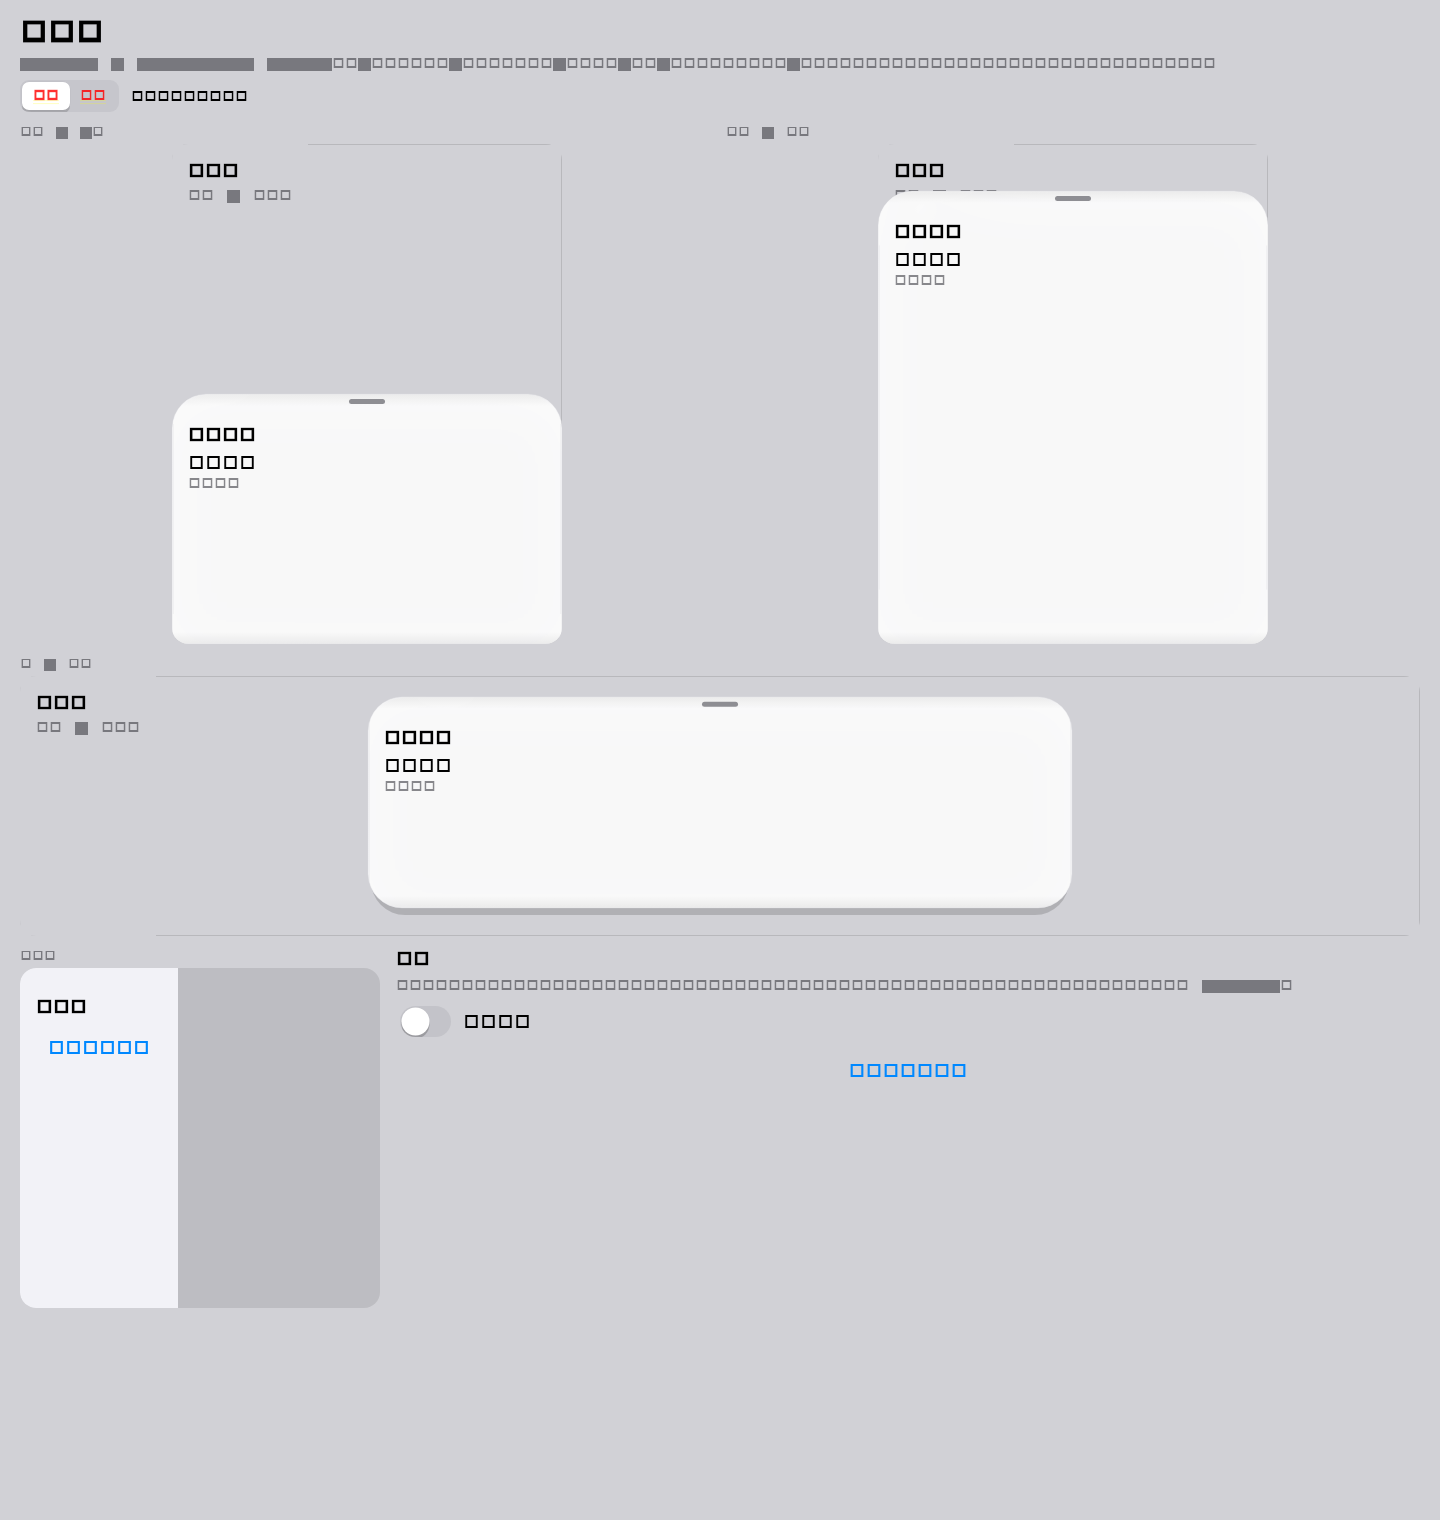
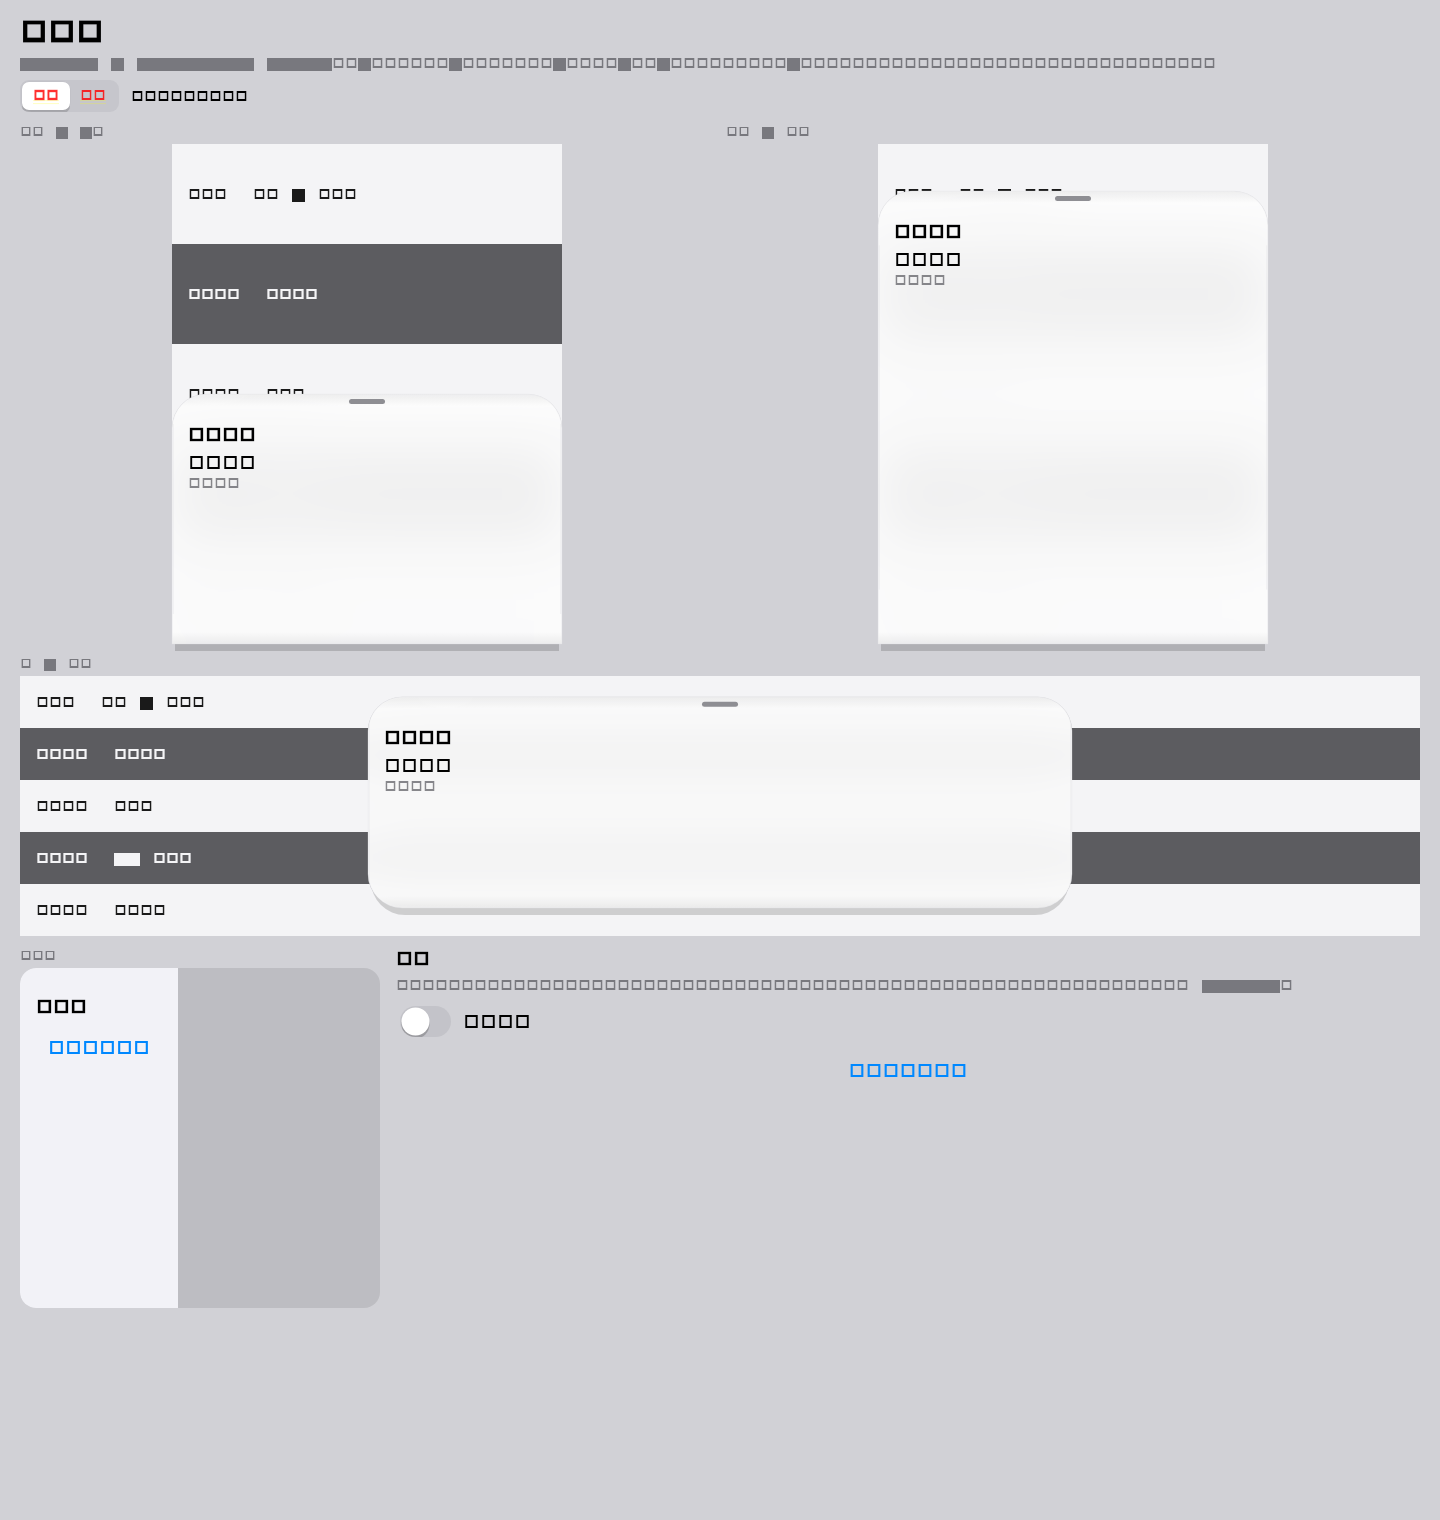
让工作表 Thick 采样背后的预览条
样张不再用整面纯色，也不再用外层裁剪包住 GlassSurface。
深浅条铺在盘面下面，BackdropFilter 与材质页同一套叠放。

Changed region(s): [[0.0, 0.402, 1.0, 0.6184], [0.0938, 0.0928, 0.4062, 0.2783], [0.5938, 0.0928, 0.9062, 0.1546]]

diff --git a/example/lib/pages/sheets_page.dart b/example/lib/pages/sheets_page.dart
@@ -411,63 +411,36 @@ class _Specimen extends StatelessWidget {
   }
 
   Widget _plate(LingyunColors colors) {
-    return ClipRRect(
-      borderRadius: BorderRadius.circular(16),
-      child: DecoratedBox(
-        key: stageKey,
-        decoration: BoxDecoration(
-          color: colors.grays.gray4,
-          border: Border.all(color: colors.separators.nonOpaque),
-        ),
-        child: LayoutBuilder(
-          builder: (context, constraints) {
-            final metrics = LingyunSheetMetrics(
-              bounds: Size(constraints.maxWidth, constraints.maxHeight),
-              safeArea: safeArea,
-              keyboardInset: 0,
-            );
-            return Stack(
-              children: [
-                _backdrop(colors),
-                Positioned(
-                  left: metrics.left,
-                  width: metrics.width,
-                  bottom: metrics.bottomOffset,
-                  height: metrics.heightFor(detent),
-                  child: LingyunSheet(
-                    attachedToBottom: metrics.attachedToBottom,
-                    grabberLabel: '抓手',
-                    child: _specimenBody(colors),
-                  ),
-                ),
-              ],
-            );
-          },
-        ),
-      ),
-    );
-  }
-
-  Widget _backdrop(LingyunColors colors) {
-    return ColoredBox(
-      color: colors.grays.gray4,
-      child: Padding(
-        padding: const EdgeInsets.fromLTRB(16, 16, 16, 12),
-        child: Column(
-          crossAxisAlignment: CrossAxisAlignment.start,
+    return LayoutBuilder(
+      builder: (context, constraints) {
+        final metrics = LingyunSheetMetrics(
+          bounds: Size(constraints.maxWidth, constraints.maxHeight),
+          safeArea: safeArea,
+          keyboardInset: 0,
+        );
+        // Same stacking as the Materials stripe field: backdrop first, then
+        // GlassSurface. An ancestor clip or a flat fill under the platter
+        // makes BackdropFilter sample one color, so the sheet reads as a
+        // solid plate.
+        return Stack(
+          key: stageKey,
+          fit: StackFit.expand,
           children: [
-            Text(
-              '收件箱',
-              style: LingyunTextStyles.headline(color: colors.labels.primary),
-            ),
-            const SizedBox(height: 4),
-            Text(
-              '今天 · 已置顶',
-              style: LingyunTextStyles.footnote(color: colors.labels.secondary),
+            const _SheetStripeField(),
+            Positioned(
+              left: metrics.left,
+              width: metrics.width,
+              bottom: metrics.bottomOffset,
+              height: metrics.heightFor(detent),
+              child: LingyunSheet(
+                attachedToBottom: metrics.attachedToBottom,
+                grabberLabel: '抓手',
+                child: _specimenBody(colors),
+              ),
             ),
           ],
-        ),
-      ),
+        );
+      },
     );
   }
 
@@ -551,3 +524,44 @@ Widget _sheetBody(BuildContext context, LingyunSheetController controller) {
 }
 
 double mathMin(double a, double b) => a < b ? a : b;
+
+/// Preview bands behind the platter. Same idea as the Materials stripe
+/// field: high-contrast strips so Thick frost stays visible. Not a token.
+class _SheetStripeField extends StatelessWidget {
+  const _SheetStripeField();
+
+  static const _bands = <(Color, Color, String, String)>[
+    (Color(0xFFF4F4F6), Color(0xFF1A1A1A), '收件箱', '今天 · 已置顶'),
+    (Color(0xFF5C5C60), Color(0xFFF4F4F6), '周末散步', '滨江公园'),
+    (Color(0xFFF4F4F6), Color(0xFF1A1A1A), '项目纪要', '已发送'),
+    (Color(0xFF5C5C60), Color(0xFFF4F4F6), '家庭相册', '12 张照片'),
+    (Color(0xFFF4F4F6), Color(0xFF1A1A1A), '采购清单', '明天之前'),
+  ];
+
+  @override
+  Widget build(BuildContext context) {
+    return Column(
+      crossAxisAlignment: CrossAxisAlignment.stretch,
+      children: [
+        for (final band in _bands)
+          Expanded(
+            child: ColoredBox(
+              color: band.$1,
+              child: Padding(
+                padding: const EdgeInsets.symmetric(horizontal: 16),
+                child: Align(
+                  alignment: Alignment.centerLeft,
+                  child: Text(
+                    '${band.$3}  ${band.$4}',
+                    maxLines: 1,
+                    overflow: TextOverflow.ellipsis,
+                    style: LingyunTextStyles.footnote(color: band.$2),
+                  ),
+                ),
+              ),
+            ),
+          ),
+      ],
+    );
+  }
+}

diff --git a/test/lingyun_sheet_test.dart b/test/lingyun_sheet_test.dart
@@ -1,6 +1,8 @@
 import 'dart:io';
+import 'dart:ui' as ui;
 
 import 'package:cupertino_ui/cupertino_ui.dart';
+import 'package:flutter/rendering.dart';
 import 'package:flutter_test/flutter_test.dart';
 import 'package:lingyun_ui_flutter/lingyun_ui_flutter.dart';
 import 'package:material_ui/material_ui.dart';
@@ -113,12 +115,10 @@ void main() {
   test(
     'sheet sources stay on the independent packages and Materials Thick',
     () {
-      final library = File(
-        'lib/src/widgets/lingyun_sheet.dart',
-      ).readAsStringSync();
-      final gallery = File(
-        'example/lib/pages/sheets_page.dart',
-      ).readAsStringSync();
+      final library = File('lib/src/widgets/lingyun_sheet.dart')
+          .readAsStringSync();
+      final gallery = File('example/lib/pages/sheets_page.dart')
+          .readAsStringSync();
       expect(library.contains('MaterialTier.thick'), isTrue);
       final glassStart = library.indexOf('return GlassSurface(');
       final glassEnd = library.indexOf('child:', glassStart);
@@ -321,6 +321,17 @@ void main() {
       expect(find.text('编辑项目'), findsNothing);
     });
 
+    testWidgets('thick platter keeps black and white backdrop apart', (
+      tester,
+    ) async {
+      final colors = await _samplePlatter(tester);
+      expect(
+        (colors.$1 - colors.$2).abs(),
+        greaterThan(4),
+        reason: 'Thick must sample the backdrop, not a flat fill',
+      );
+    });
+
     testWidgets('dark theme still resolves Materials Thick', (tester) async {
       await _open(
         tester,
@@ -372,15 +383,60 @@ Future<void> _open(
   await tester.pumpAndSettle();
 }
 
+Future<(int, int)> _samplePlatter(WidgetTester tester) async {
+  tester.view.devicePixelRatio = 1;
+  tester.view.physicalSize = const Size(320, 240);
+  addTearDown(tester.view.resetDevicePixelRatio);
+  addTearDown(tester.view.resetPhysicalSize);
+  await tester.pumpWidget(
+    RepaintBoundary(
+      key: const Key('sheet-blur-probe'),
+      child: _app(
+        home: const Stack(
+          fit: StackFit.expand,
+          children: [
+            Row(
+              crossAxisAlignment: CrossAxisAlignment.stretch,
+              children: [
+                Expanded(child: ColoredBox(color: Color(0xFF101010))),
+                Expanded(child: ColoredBox(color: Color(0xFFF4F4F6))),
+              ],
+            ),
+            Padding(
+              padding: EdgeInsets.all(16),
+              child: LingyunSheet(
+                showGrabber: false,
+                attachedToBottom: false,
+                child: SizedBox.expand(),
+              ),
+            ),
+          ],
+        ),
+      ),
+    ),
+  );
+  await tester.pump();
+  final boundary = tester.renderObject<RenderRepaintBoundary>(
+    find.byKey(const Key('sheet-blur-probe')),
+  );
+  final bytes = await tester.runAsync(() async {
+    final image = await boundary.toImage(pixelRatio: 1);
+    final data = await image.toByteData(format: ui.ImageByteFormat.rawRgba);
+    return data!.buffer.asUint8List();
+  });
+  final width = boundary.size.width.round();
+  int red(int x, int y) => bytes![(y * width + x) * 4];
+  return (red(60, 120), red(250, 120));
+}
+
 Widget _app({required Widget home, Brightness brightness = Brightness.light}) {
   final glass = brightness == Brightness.dark
       ? LiquidGlassTheme.dark
       : LiquidGlassTheme.light;
   return MaterialApp(
     debugShowCheckedModeBanner: false,
-    theme: LingyunMaterialTheme.themeData(
-      brightness,
-    ).copyWith(extensions: [glass]),
+    theme: LingyunMaterialTheme.themeData(brightness)
+        .copyWith(extensions: [glass]),
     home: home,
   );
 }

diff --git a/docs/SHEETS.md b/docs/SHEETS.md
@@ -74,6 +74,7 @@ final result = await showLingyunSheet<String>(
 
 - 紧凑 · 中档、紧凑 · 高档：390 宽的示意框
 - 宽或常规 · 高档：跟窗口走的浮起卡片
+- 盘面后面是深浅相间的预览条，让 Thick 的 BackdropFilter 有内容可采样。外层不再用裁剪把玻璃和底拆开。
 - 紧凑框里的「在紧凑框弹出」和「模拟键盘」
 - 「在当前窗口弹出」用真实窗口的分档
 
